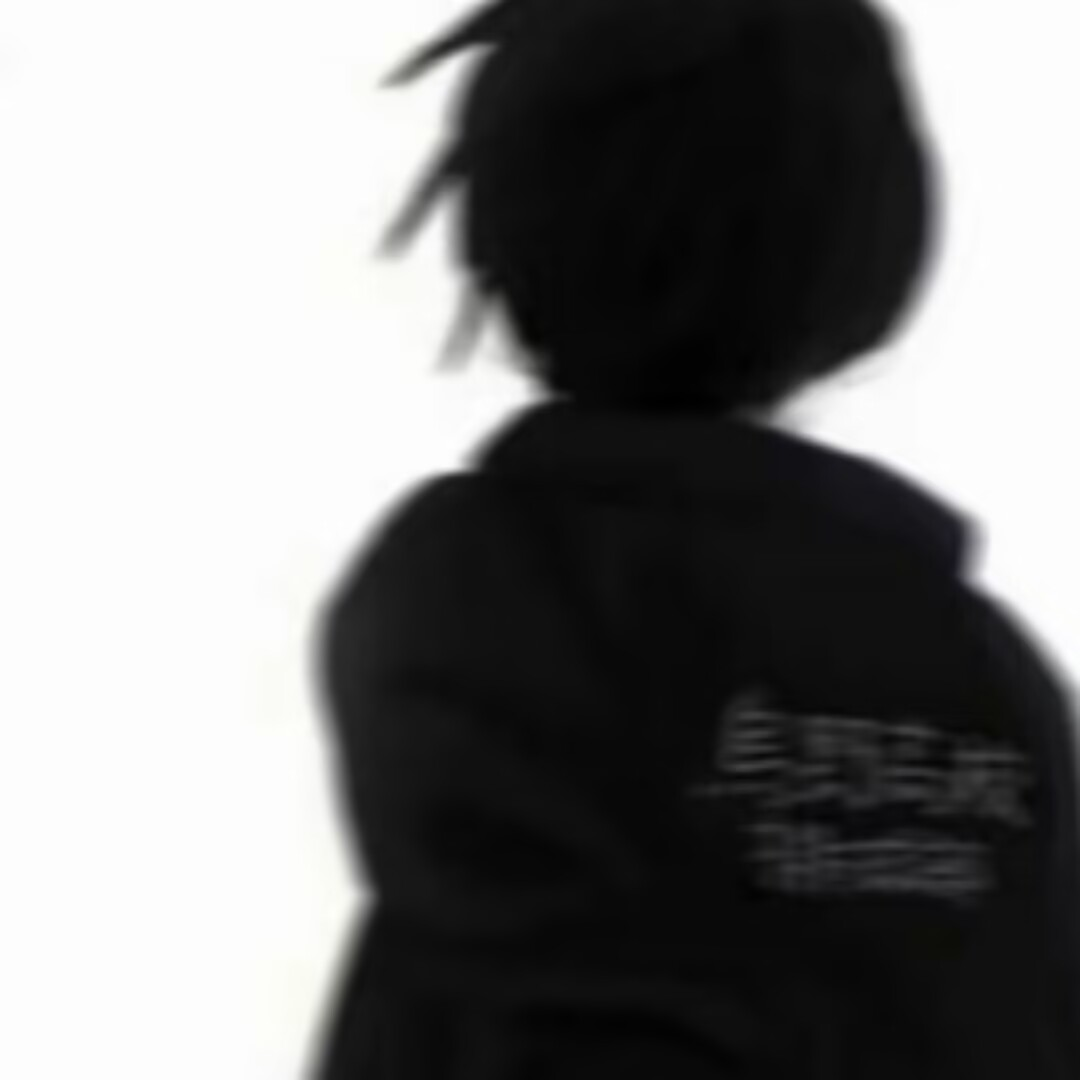
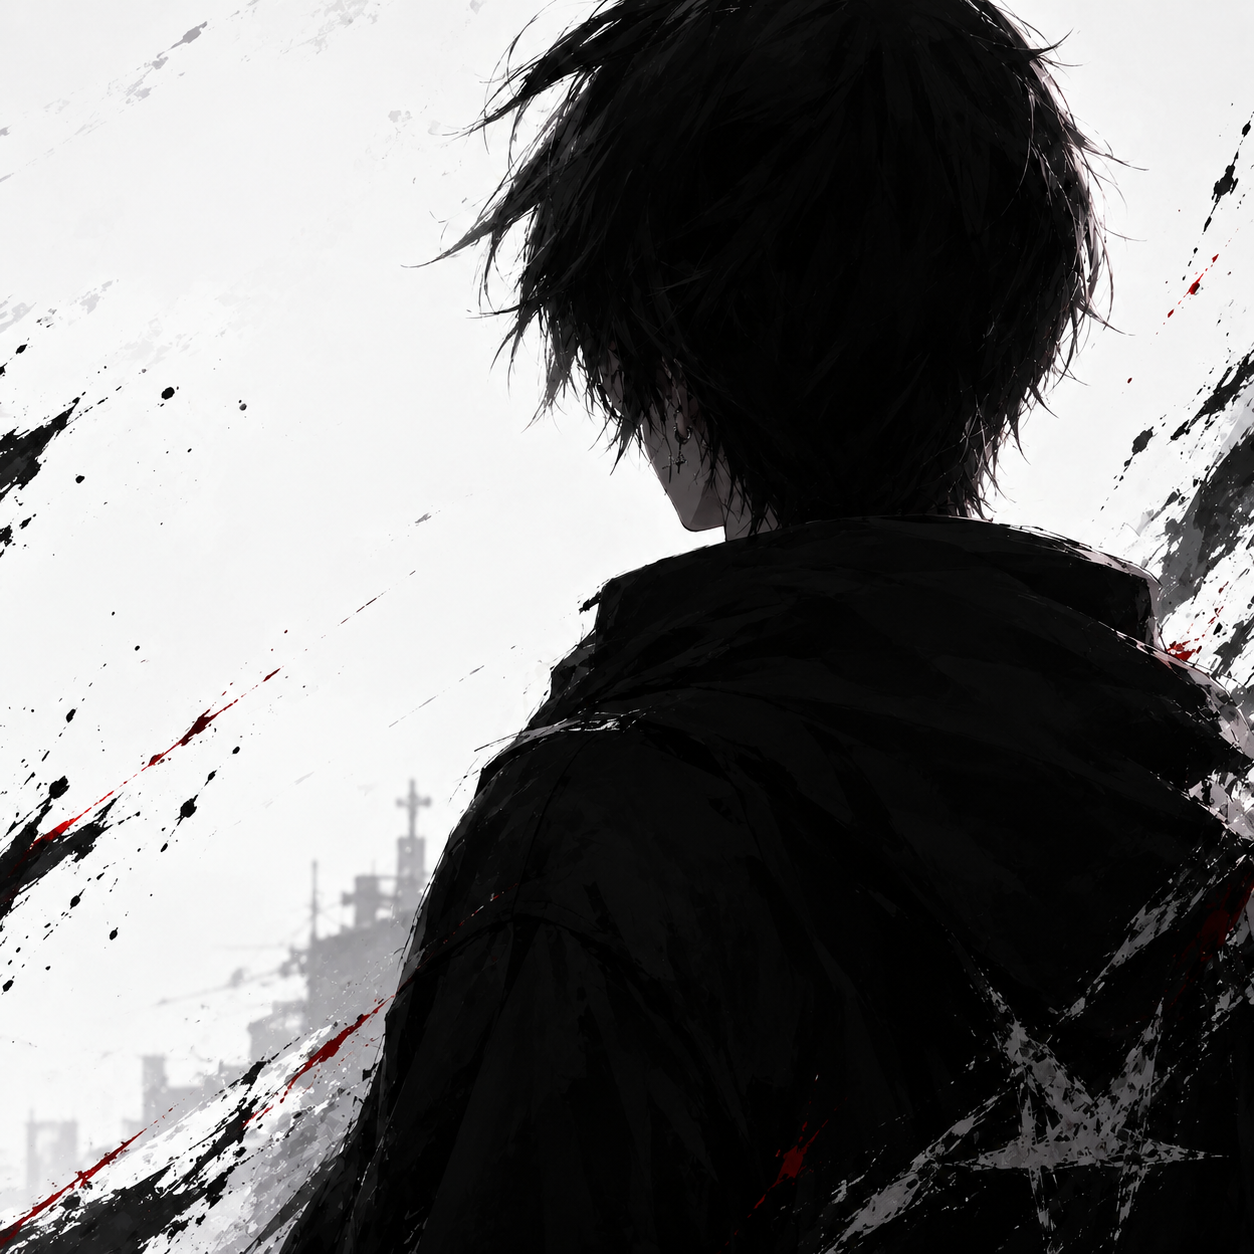
Align gg_killfx docs with site standards and document exports.
Trim player page config to prose, add api.md entries, refresh gege.png avatar.

diff --git a/plugins/gg-killfx.md b/plugins/gg-killfx.md
@@ -73,7 +73,7 @@ title: "击杀特效 gg_killfx"
 3. 执行 `/killfxreload` 或在管理面板重载
 4. 在面板中为玩家选择壁纸  
 
-其他脚本为玩家改壁纸见 [接口参考](api.html) 中的 gg_killfx。
+其他脚本为玩家改壁纸见 [接口参考 · gg_killfx](api.html#gg_killfx击杀特效)。
 
 ## 更新日志
 
